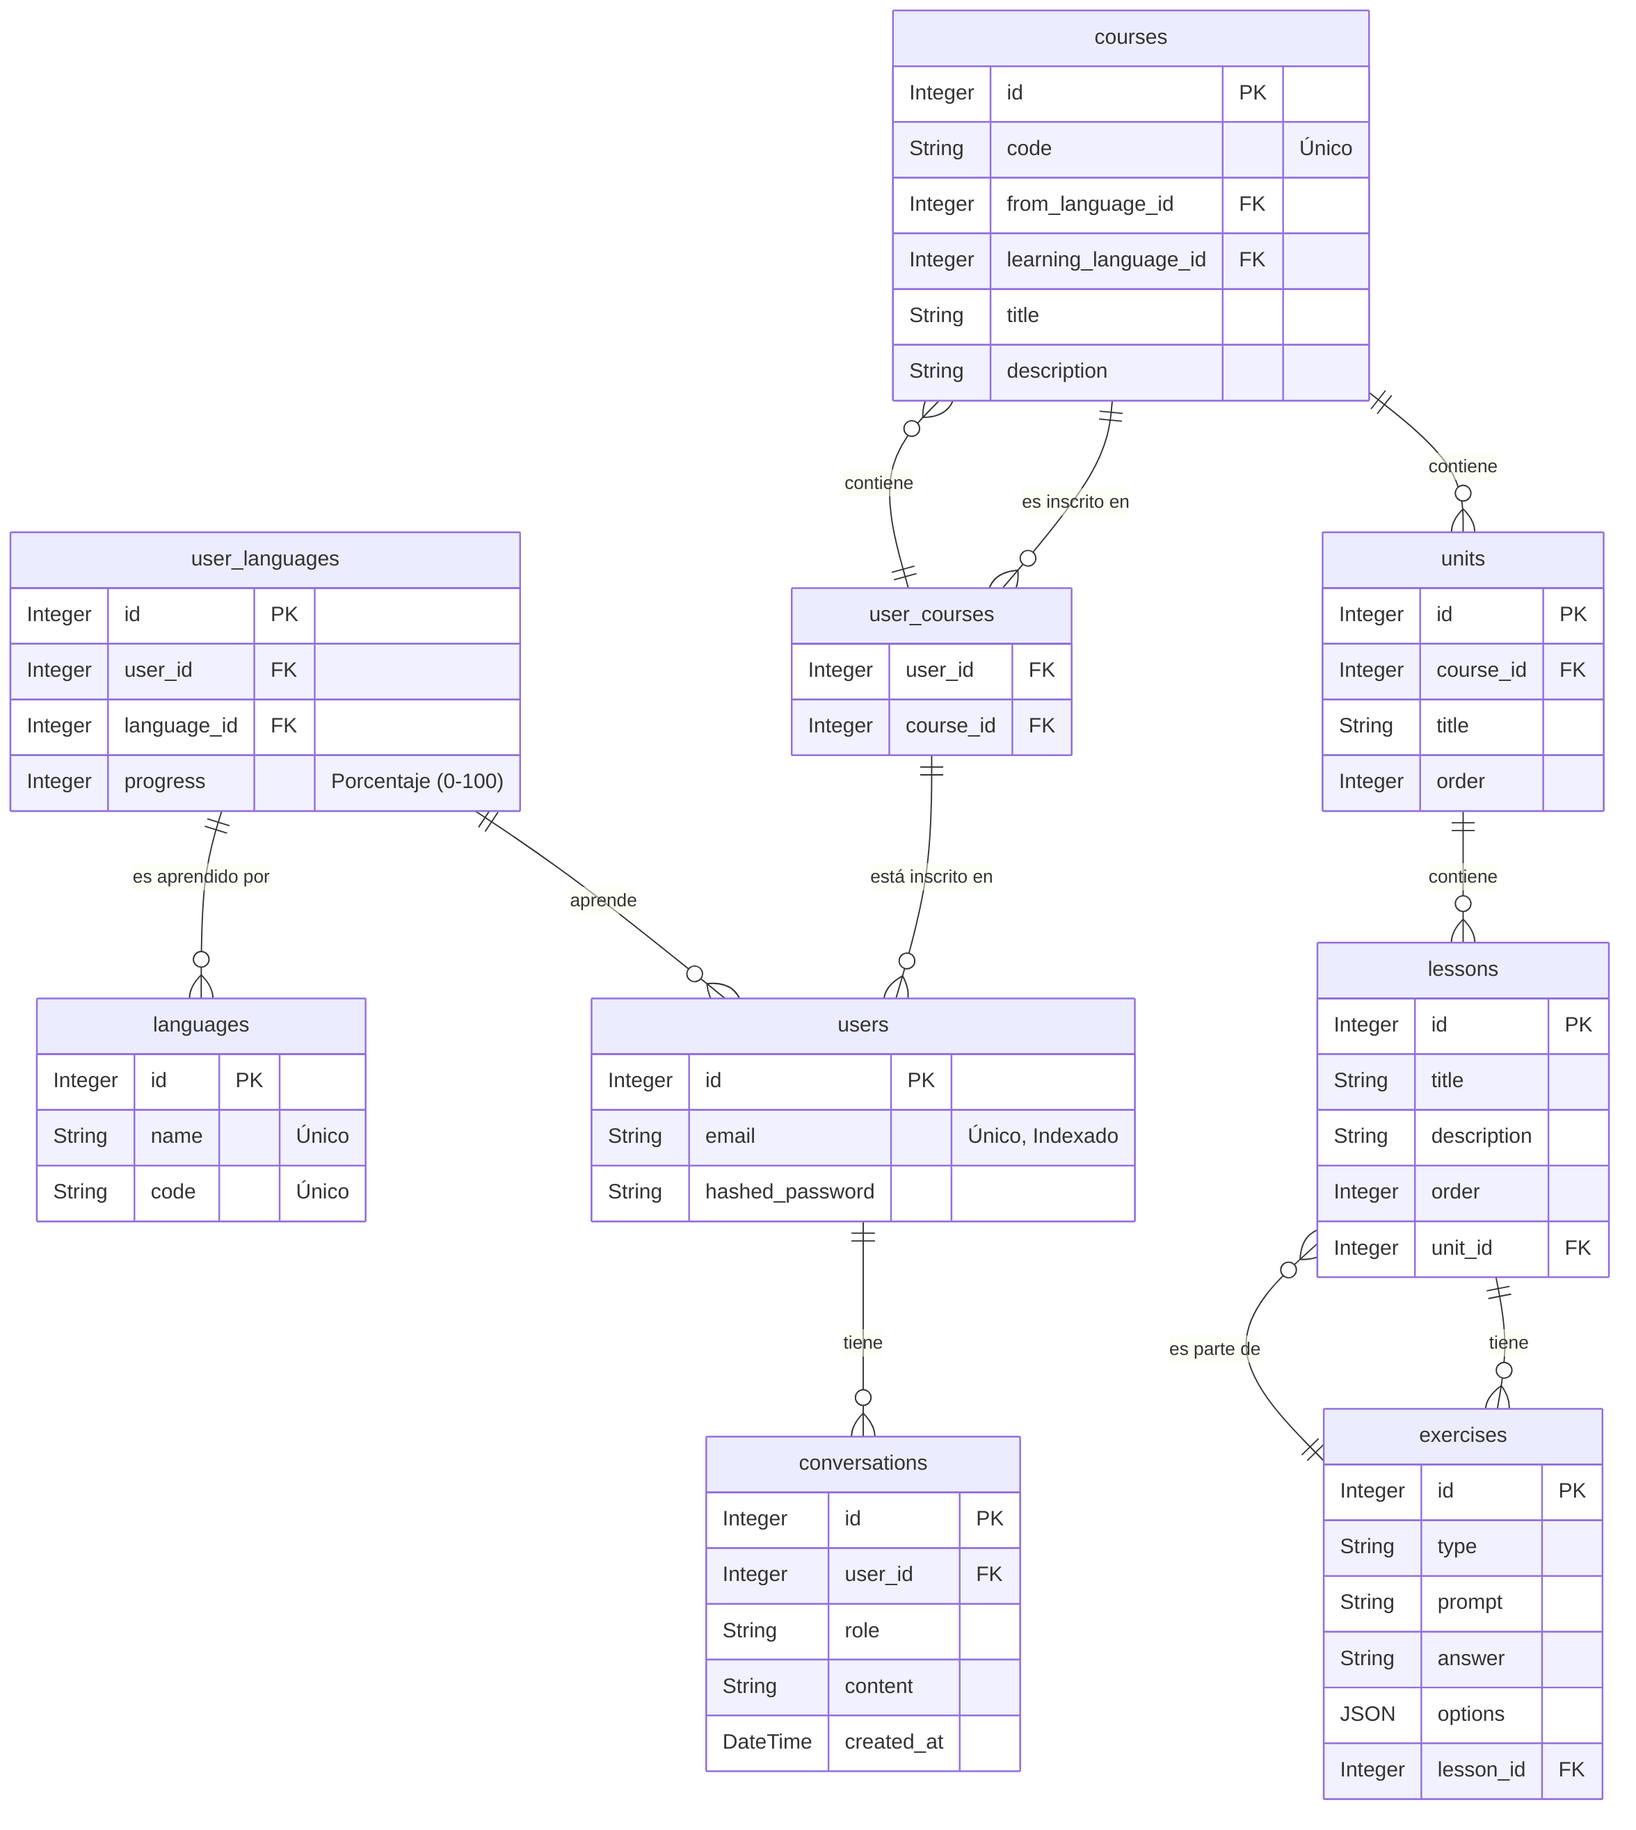
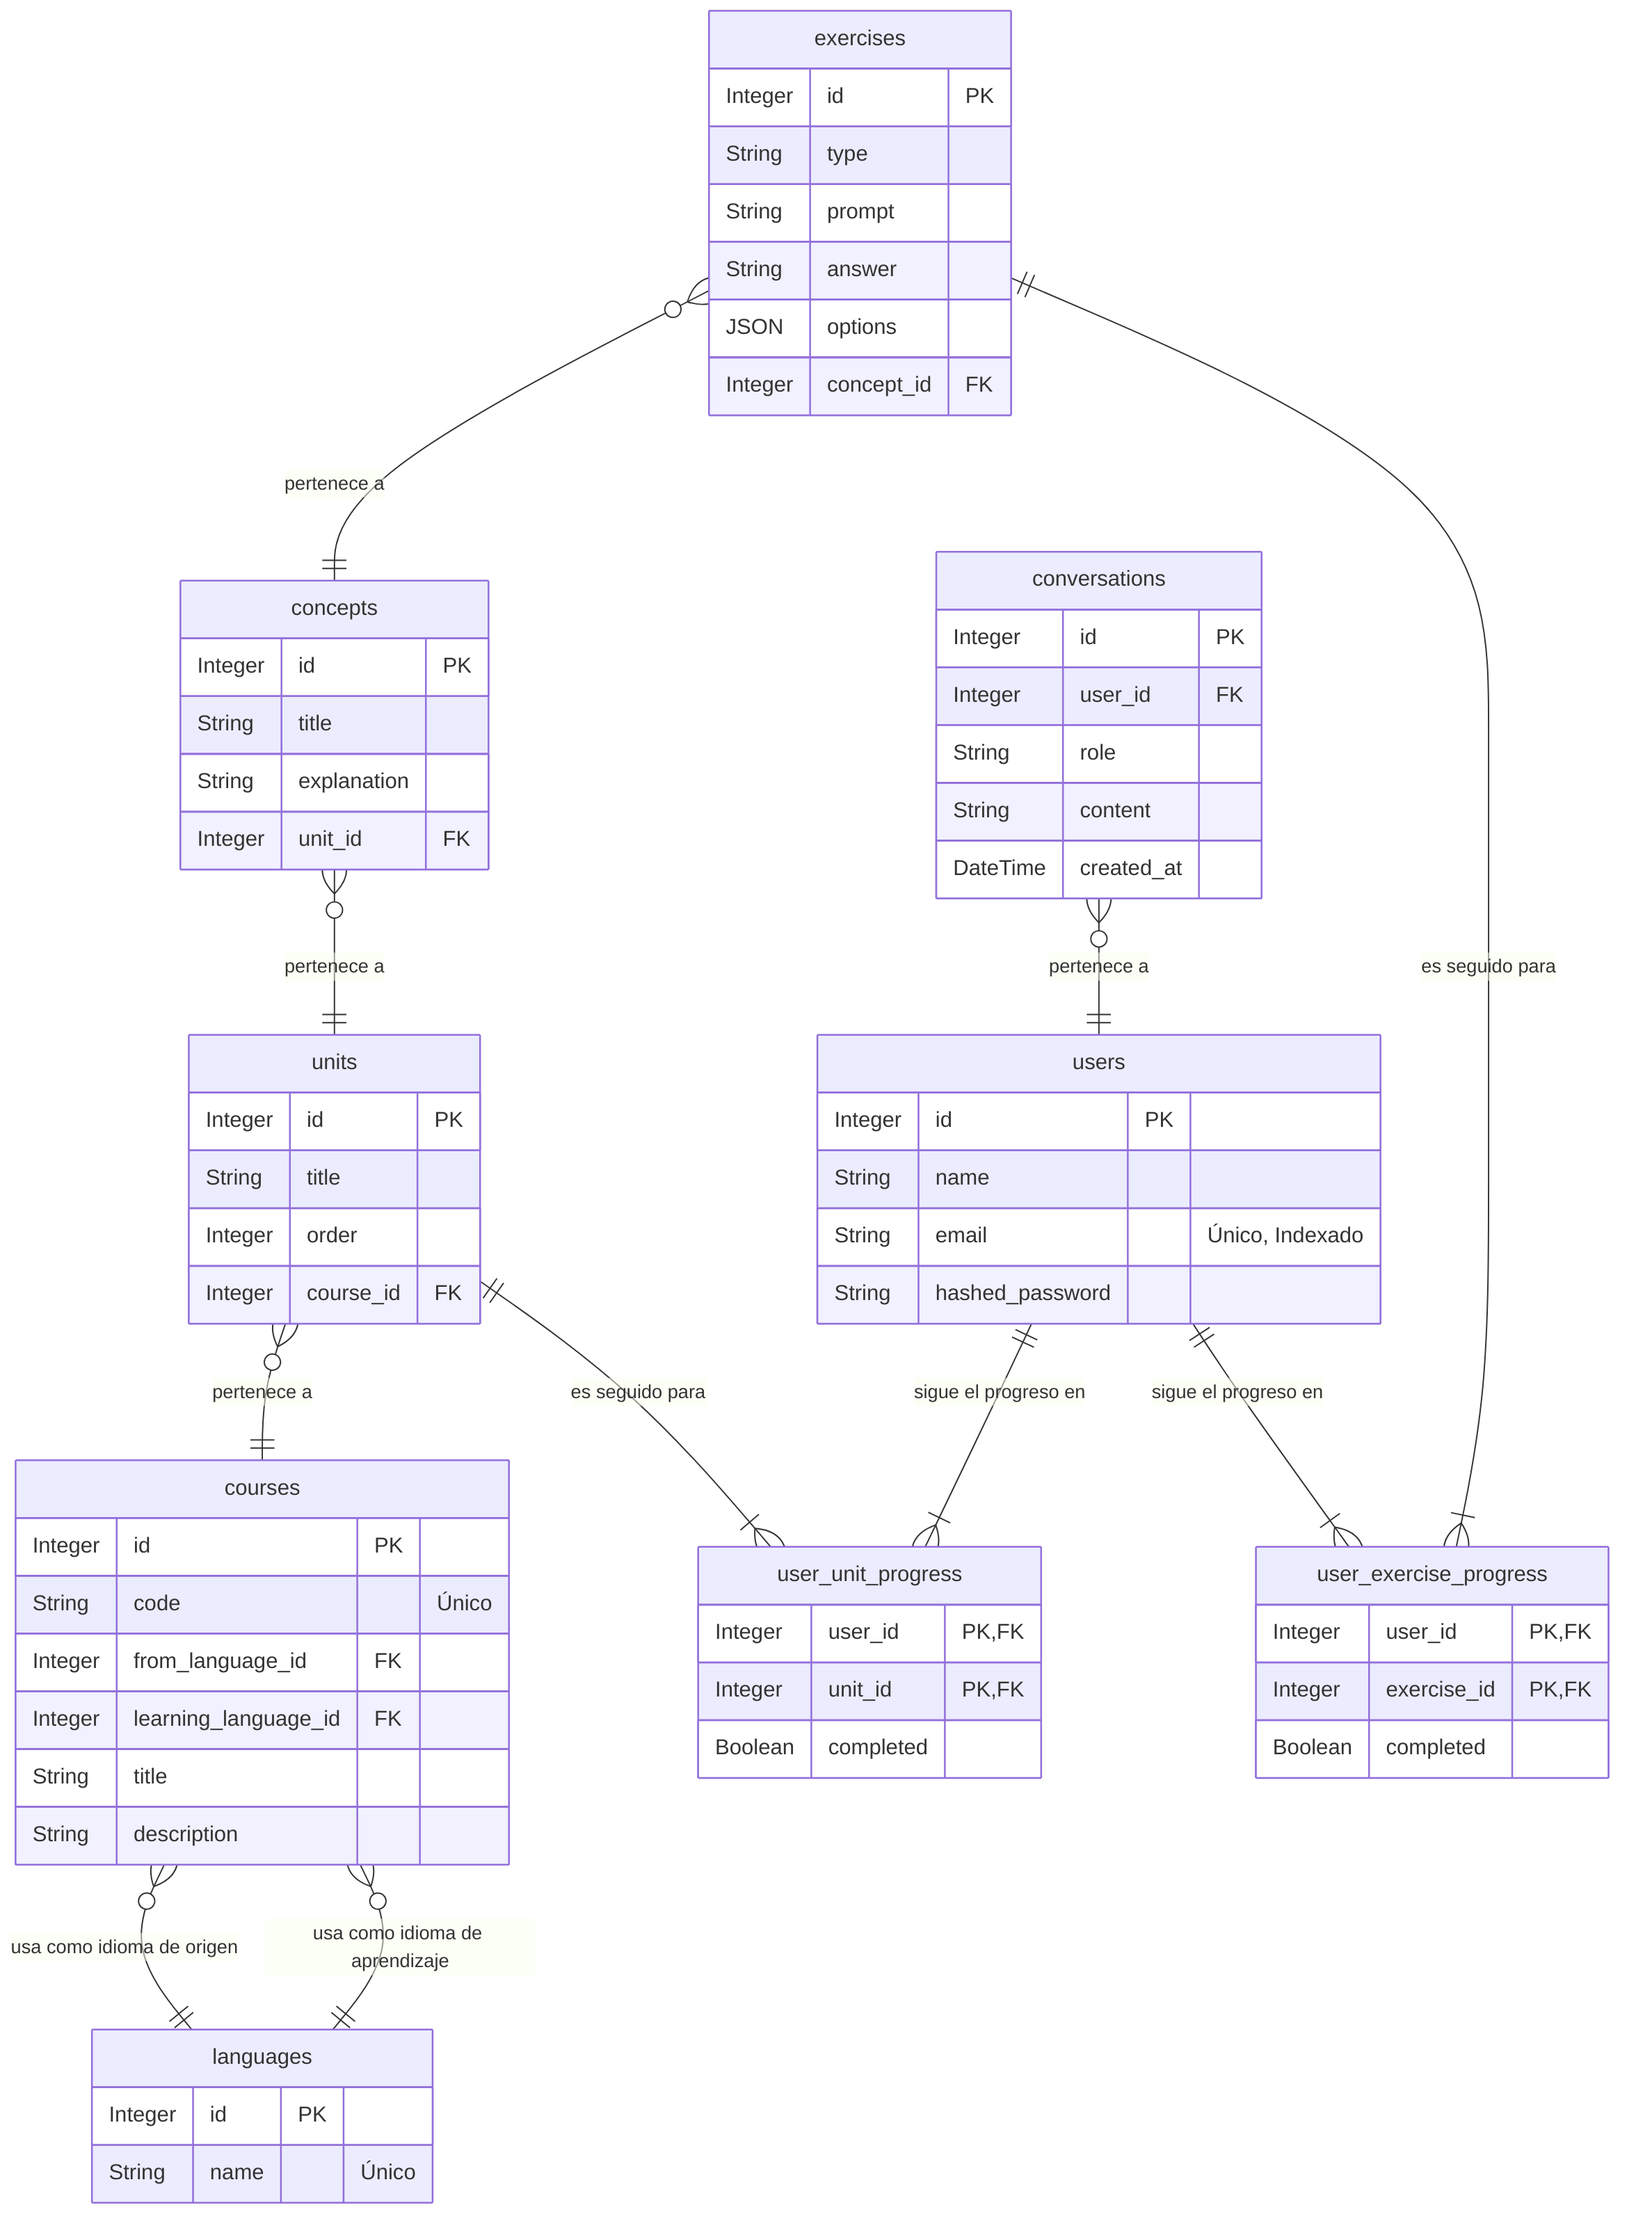
Mejora de la documentación, manual de usuario e imágenes
Para poder continuar el manual de usuario, he añadido imágenes con cada una de las vistas disponibles de la aplicación, para ello he guardado todo en formato .png.
He actualizado los diagramas con la información más reciente.
He actualizado la mayoría de los ficheros .md con la información relacionada según su fin.

diff --git a/documentacion/4_manual_usuario.html b/documentacion/4_manual_usuario.html
@@ -22,8 +22,15 @@
 
         p,
         li {
-            font-size: 1rem;
+            font-size: 1.1rem;
             line-height: 1.6;
+        }
+
+        .screenshot {
+            width: 70%;
+            border: 1px solid #ddd;
+            box-shadow: 2px 2px 8px rgba(0, 0, 0, 0.1);
+            margin-top: 20px;
         }
     </style>
 </head>
@@ -31,55 +38,129 @@
 <body>
     <div class="reveal">
         <div class="slides">
+            <!-- Diapositiva de Título -->
             <section>
-                <div class="logo">
-                    <img src="../dillearning/assets/images/dillearning_logo_256.png" alt="Logo de Dillearning">
-                </div>
+                <img src="../dillearning/assets/images/dillearning_logo_256.png" alt="Logo de Dillearning"
+                    style="border: none; box-shadow: none; width: 200px;">
                 <h4>Bienvenido al Manual de Usuario de Dillearning</h4>
+                <p>Tu guía para aprender un nuevo idioma de forma interactiva y con la ayuda de la IA.</p>
+            </section>
+
+            <!-- Introducción -->
+            <section>
+                <h4>¿Qué es Dillearning?</h4>
                 <p>
-                    Aprende cómo registrarte, iniciar sesión y descubrir las funcionalidades de nuestra aplicación para
-                    aprender idiomas.
+                    Dillearning (del turco "dil", que significa idioma) es una aplicación de código abierto diseñada
+                    para que el aprendizaje de idiomas sea accesible, pedagógico y centrado en un uso realista del
+                    lenguaje.
                 </p>
-
-                <div class="toc">
-                    <ul>
-                        <li><a href="#introduccion">Introducción</a></li>
-                        <li><a href="#como-usar">¿Cómo usar la aplicación?</a></li>
-                        <li><a href="#caracteristicas">Características de la aplicación</a></li>
-                        <li><a href="#consejos">Consejos y ayuda</a></li>
-                    </ul>
-                </div>
             </section>
 
-            <section id="introduccion">
-                <h4>Introducción</h4>
-                <p>
-                    Dillearning (dil del turco para "idioma") es una aplicación de aprendizaje de idiomas que ofrece una
-                    experiencia amigable, enriquecedora y sin fines de lucro, enfocándose en un aprendizaje más realista
-                    y pedagógico del lenguaje.
-                </p>
-
-            </section>
-
-            <section id="como-usar">
-                <h4>¿Cómo usar la aplicación?</h4>
-                <p>Puedes acceder a la app de las siguientes maneras:</p>
-                <ol>
-                    <li>Vía web en <a href="https://dillearning.com" target="_blank">dillearning.com</a>.</li>
-                    <li>Descargando la aplicación desde la Play Store.</li>
-                    <li>En Linux, si usas distribuciones como Ubuntu o Debian.</li>
-                </ol>
-            </section>
-
-            <section id="caracteristicas">
-                <h4>Características de la aplicación</h4>
+            <!-- Cómo Usar -->
+            <section>
+                <h4>Primeros Pasos</h4>
+                <p>Puedes acceder a la aplicación de varias maneras:</p>
                 <ul>
-                    <li>Aprendizaje de idiomas con lecciones interactivas.</li>
-                    <li>Seguimiento de tu progreso y estadísticas de aprendizaje.</li>
-                    <li>IA incorporada: chatea, genera ejemplos, traduce y resuelve dudas con nuestra inteligencia
-                        artificial.</li>
+                    <li><b>Web:</b> <a href="https://dillearning.com" target="_blank">dillearning.com</a></li>
+                    <li><b>Android:</b> Descargando desde la Play Store (próximamente).</li>
+                    <li><b>Linux:</b> Instalando el paquete .deb en distribuciones como Ubuntu o Debian.</li>
                 </ul>
             </section>
+
+            <!-- Inicio de Sesión -->
+            <section>
+                <h4>Paso 1: Iniciar Sesión</h4>
+                <p>Al abrir la aplicación, verás la pantalla de inicio de sesión. Si ya tienes una cuenta, introduce tus
+                    credenciales aquí.</p>
+                <img class="screenshot" src="img/01_login_screen.png" alt="Pantalla de inicio de sesión">
+            </section>
+
+            <!-- Registro -->
+            <section>
+                <h4>Paso 2: Crear una Cuenta</h4>
+                <p>Si eres un usuario nuevo, pulsa en "Regístrate" para crear tu cuenta. Solo necesitas un nombre, un
+                    correo electrónico y una contraseña.</p>
+                <img class="screenshot" src="img/02_register_screen.png" alt="Pantalla de registro">
+            </section>
+
+            <!-- Pantalla Principal -->
+            <section>
+                <h4>Paso 3: Pantalla Principal</h4>
+                <p>Tras iniciar sesión, llegarás al menú principal. Desde aquí puedes explorar los cursos, acceder a las
+                    herramientas de IA o configurar tu perfil.</p>
+                <img class="screenshot" src="img/03_main_screen.png" alt="Pantalla Principal">
+            </section>
+
+            <!-- Herramientas de IA: Chat -->
+            <section>
+                <h4>Herramienta IA: Chat</h4>
+                <p>Haz preguntas sobre gramática, vocabulario o simplemente practica tu conversación en el idioma que
+                    estás aprendiendo.</p>
+                <img class="screenshot" src="img/04_chat_question_screen.png" alt="Pantalla de pregunta al chat">
+            </section>
+
+            <section>
+                <h4>Ejemplo de Conversación con IA</h4>
+                <p>La IA te responderá y corregirá tus errores, ayudándote a mejorar tu fluidez y precisión.</p>
+                <img class="screenshot" src="img/05_chat_conversation.png" alt="Conversación con el chat">
+            </section>
+
+            <!-- Herramientas de IA: Traductor -->
+            <section>
+                <h4>Herramienta IA: Traductor</h4>
+                <p>¿No estás seguro de una palabra o frase? Utiliza el traductor para obtener una respuesta rápida y
+                    precisa.</p>
+                <img class="screenshot" src="img/06_translator_screen.png" alt="Pantalla del traductor">
+            </section>
+
+            <!-- Perfil de Usuario -->
+            <section>
+                <h4>Tu Perfil</h4>
+                <p>Accede a tu perfil para cambiar el idioma de la interfaz o seleccionar tu tema preferido (claro u
+                    oscuro).</p>
+                <img class="screenshot" src="img/07_profile_screen.png" alt="Pantalla de perfil">
+            </section>
+
+            <section>
+                <h4>Tema Oscuro</h4>
+                <p>Dillearning también está disponible en modo oscuro para una experiencia visual más cómoda en
+                    condiciones de poca luz.</p>
+                <img class="screenshot" src="img/08_dark_theme_profile_screen.png"
+                    alt="Pantalla de perfil con tema oscuro">
+            </section>
+
+            <section>
+                <h4>Cambio de Idioma</h4>
+                <p>Puedes cambiar el idioma de la interfaz de la aplicación en cualquier momento desde tu perfil.</p>
+                <img class="screenshot" src="img/09_change_language_screen.png" alt="Pantalla de cambio de idioma">
+            </section>
+
+            <!-- Lecciones y Ejercicios -->
+            <section>
+                <h4>Aprendizaje: Unidades del Curso</h4>
+                <p>Cada curso se divide en unidades temáticas. Completa las unidades en orden para construir tu
+                    conocimiento de forma progresiva.</p>
+                <img class="screenshot" src="img/10_units_screen.png" alt="Pantalla de unidades del curso">
+            </section>
+
+            <section>
+                <h4>Aprendizaje: Lecciones</h4>
+                <p>Dentro de cada unidad, encontrarás lecciones que te introducen a nuevos conceptos y vocabulario.</p>
+                <img class="screenshot" src="img/11_unit_details_screen.png" alt="Detalles de una unidad">
+            </section>
+
+            <section>
+                <h4>Aprendizaje: Ejercicios</h4>
+                <p>Pon a prueba lo que has aprendido con ejercicios interactivos al final de cada lección.</p>
+                <img class="screenshot" src="img/12_exercise_example_screen.png" alt="Ejemplo de ejercicio">
+            </section>
+
+            <!-- Diapositiva Final -->
+            <section>
+                <h4>¡Listo para Aprender!</h4>
+                <p>Ya conoces las funcionalidades principales de Dillearning. ¡Disfruta de tu viaje de aprendizaje!</p>
+            </section>
+
         </div>
     </div>
 

diff --git a/documentacion/diagramas/README.md b/documentacion/diagramas/README.md
@@ -1,5 +1,24 @@
-# Diagramas con mermaid
+# Diagramas con Mermaid
 
-He usado el paquete [mermaid-js/mermaid](https://github.com/mermaid-js/mermaid) para realizar los diagramas.
+He usado el paquete [mermaid-js/mermaid](https://github.com/mermaid-js/mermaid) para realizar y generar los diagramas del proyecto Dillearning.
 
-Hay buena documentación en [https://mermaid.js.org/](https://mermaid.js.org/)
+Para más información sobre Mermaid, puedes consultar su documentación oficial en [https://mermaid.js.org/](https://mermaid.js.org/).
+
+## Diagramas Disponibles
+
+*   ### Arquitectura del Sistema ([arquitectura_sistema.mmd](./arquitectura_sistema.mmd))
+    Este diagrama ofrece una vista de alto nivel de la estructura del sistema Dillearning, mostrando cómo interactúan los componentes del frontend (Flutter), backend (FastAPI), servicios de IA (Ollama) y el pipeline CI/CD (GitLab).
+
+*   ### Persistencia de Datos ([persistencia_datos_esquema_bd.mmd](./persistencia_datos_esquema_bd.mmd))
+    Este diagrama detalla la estructura de la base de datos SQLite, incluyendo tablas como `users`, `languages`, `courses`, `units`, `concepts`, `exercises`, `conversations` y tablas de progreso (`user_unit_progress`, `user_exercise_progress`), así como sus relaciones.
+
+*   ### Interfaz de Usuario ([interfaz_usuario.mmd](./interfaz_usuario.mmd))
+    Este diagrama describe el flujo de navegación principal de la aplicación, desde la pantalla de inicio (splash screen) y autenticación, hasta las secciones clave como la selección de idioma, el centro de aprendizaje, el perfil de usuario y las herramientas de IA integradas.
+
+## Generación de Diagramas
+
+Una vez modificados los ficheros `.mmd`, puedes ejecutar el script [generate_diagrams.sh](./generate_diagrams.sh) para generar los diagramas en formato `.png`:
+
+```bash
+$ bash generate_diagrams.sh
+```

diff --git a/documentacion/4_documentacion_final.md b/documentacion/4_documentacion_final.md
@@ -12,6 +12,12 @@ Toda la documentación técnica está bien especificada en:
 - [README.md dillearning backend - API](../dillearning-backend/README.md)
 - [README.md dillearning frontend - Flutter](../dillearning/README.md)
 
+Además, los diagramas clave del proyecto se encuentran en la carpeta `documentacion/diagramas/`:
+
+- [Diagrama de Arquitectura del Sistema](./diagramas/arquitectura_sistema.png)
+- [Diagrama de Persistencia de Datos](./diagramas/persistencia_datos_esquema_bd.png)
+- [Diagrama de Interfaz de Usuario](./diagramas/interfaz_usuario.png)
+
 # Manual de Usuario
 
 He implementado el manual de usuario usando [revealjs](https://revealjs.com/) que ofrece la manera de construir una web con forma de diapositivas de forma muy sencilla y permite exportarlo a PDF. De esta manera tenemos ambas versiones.

diff --git a/documentacion/README.md b/documentacion/README.md
@@ -1,5 +1,15 @@
-# Sobre esta carpeta
+# Documentación del Proyecto Dillearning
 
-## `documentacion/`
+Este directorio contiene toda la documentación elaborada para el proyecto Dillearning.
 
-Carpeta onde se recollerá toda a documentación que elabores para o proxecto.
+## Índice
+
+*   [1. Propuesta de Proyecto](./1_proposta.md)
+*   [2. Anteproyecto](./2_anteproxecto.md)
+*   [3. Prototipos y Seguimiento](./3_prototipos.md)
+*   [4. Documentación Final](./4_documentacion_final.md)
+    *   [Manual de Usuario (HTML)](./4_manual_usuario.html)
+    *   [Manual de Usuario (PDF)](./manual_usuario.pdf)
+*   [5. Defensa del Proyecto](./5_defensa.md)
+*   [README de Diagramas](./diagramas/README.md)
+*   [README de Imágenes](./img/README.md)

diff --git a/documentacion/img/README.md b/documentacion/img/README.md
@@ -1,7 +1,3 @@
-# Sobre esta carpeta:
-
 ## `documentacion/img/`
 
-Carpeta para almacenar as imaxes que empregues na elaboración da documentación do teu proxecto.
-
-**IMPORTANTE**: Procura empregar `PNG` como formato de imaxe.
+En esta carpeta se almacenan imágenes y capturas de pantalla utilizadas en la documentación del proyecto, como el manual de usuario.
